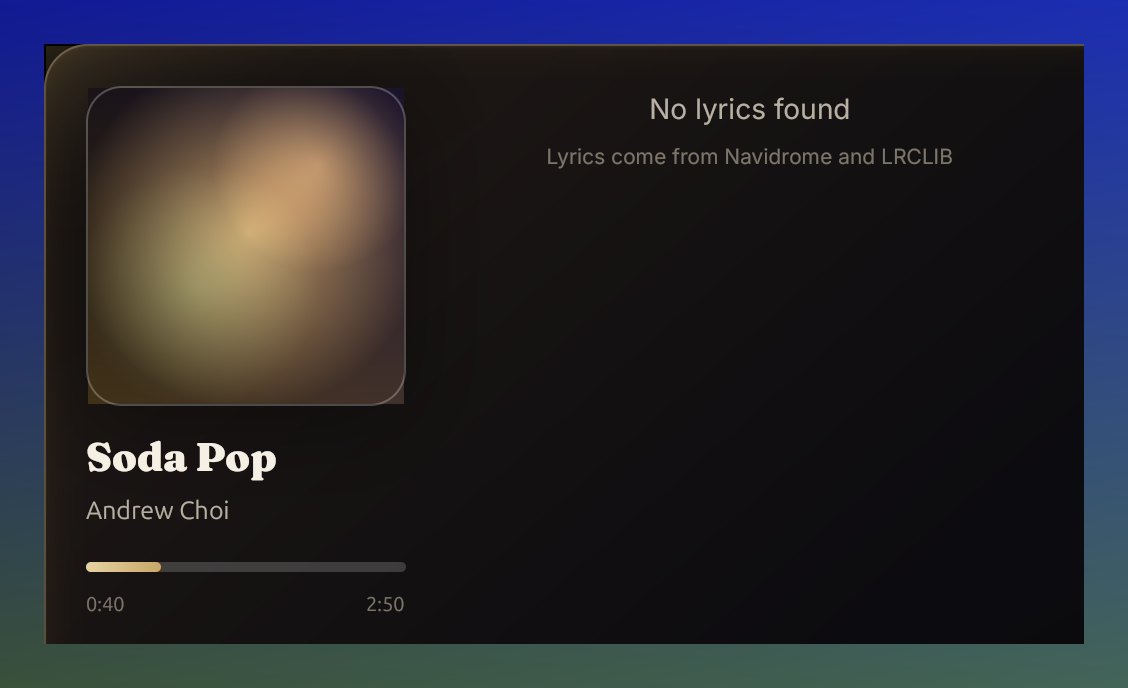
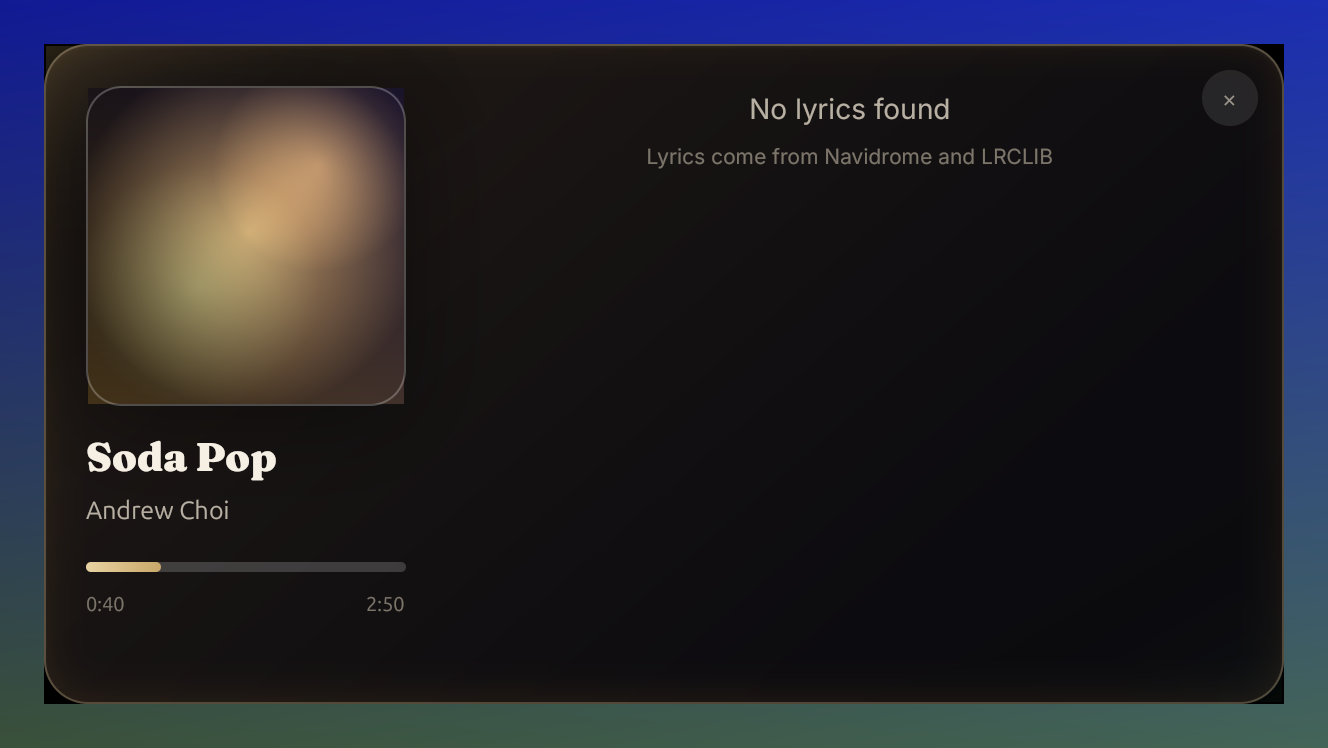
fix(overlay): make the band genuinely live while the window is unfocused
The overlay still only caught up when it was clicked. The observer added last
round could never fire: in GPUI `Entity::update` does not notify observers, only
`cx.notify()` does — and every overlay update in the shell discarded its context
(`|st, _cx|`), so nothing ever asked the view to repaint. The window was redrawn
only when an input event arrived, which is exactly why clicking made the lyrics
jump forward.

Three layers now, in order of preference:

- The shell calls `cx.notify()` in all four places it mutates the overlay state
  (track start, artwork landing, lyrics result, position tick), which is the
  documented way to notify observers.
- The view observes the lyric state and repaints on change.
- A 120 ms safety ticker compares `(position, active row, line count)` with what
  it last rendered and notifies only on a real change, so a paused overlay
  schedules nothing and a future caller that forgets `cx.notify()` cannot freeze
  the band again.

`tests/screenshot_overlay.rs` gains `the_overlay_repaints_without_any_input`: it
opens the overlay headlessly, renders it, moves the position by 140 s, renders
again with no input event at all, and asserts the pixels differ. It prints
"overlay repainted without input" when it holds.

152 tests pass, clippy clean.

Changed region(s): [[0.031, 0.061, 0.9929, 0.9462], [0.4654, 0.1221, 0.8378, 0.2442], [0.8998, 0.1221, 0.9309, 0.1526]]

diff --git a/tests/screenshot_overlay.rs b/tests/screenshot_overlay.rs
@@ -238,6 +238,10 @@ fn capture_overlay_states() {
                 ));
             });
             capture("overlay-min", &mut cx, any, false);
+            // Back to the default size for the remaining captures.
+            let _ = cx.update_window(any, |_view, window, _cx| {
+                window.resize(gpui::size(gpui::px(W as f32), gpui::px(H as f32)));
+            });
         }
     }
 
@@ -292,4 +296,73 @@ fn capture_overlay_states() {
             capture("overlay-empty", &mut cx, any, false);
         }
     }
+}
+
+/// The overlay must repaint when the song moves while the window has no focus and
+/// receives no input. Renders the same window twice with a position jump in
+/// between and requires the pixels to change.
+#[test]
+#[ignore = "needs GPUI's headless wgpu renderer; run with --ignored"]
+fn the_overlay_repaints_without_any_input() {
+    let text_system = Arc::new(CosmicTextSystem::new("sans-serif"));
+    let mut cx = HeadlessAppContext::with_platform(text_system, Arc::new(()), || {
+        gpui_platform::current_headless_renderer()
+    });
+    cx.update(|app| {
+        let fonts: Vec<std::borrow::Cow<'static, [u8]>> = vec![
+            std::borrow::Cow::Borrowed(include_bytes!("../assets/fonts/Fraunces.ttf")),
+            std::borrow::Cow::Borrowed(include_bytes!("../assets/fonts/Inter.ttf")),
+        ];
+        let _ = app.text_system().add_fonts(fonts);
+    });
+
+    let state = cx.update(|app| app.new(|_cx| OverlayState::default()));
+    let st = state.clone();
+    cx.update(move |app| {
+        st.update(app, |s, _cx| {
+            s.begin("Bad Guy".to_string(), "Billie Eilish".to_string());
+            s.set_status(&LyricsStatus::Synced(synced_lines()));
+            s.sync_position(Duration::from_secs(20), 0, Some(Duration::from_secs(214)));
+        });
+    });
+
+    let geometry = Arc::new(std::sync::Mutex::new(OverlayGeometry::default()));
+    let handle = cx.update(|app| {
+        let bounds = gpui::Bounds::new(
+            gpui::point(gpui::px(0.0), gpui::px(0.0)),
+            gpui::size(gpui::px(W as f32), gpui::px(H as f32)),
+        );
+        myuzik::overlay::open_overlay(app, state.clone(), geometry, bounds)
+    });
+    let any: AnyWindowHandle = handle.into();
+
+    // Give the overlay's own ticker a chance to run: no input event is sent.
+    let shot = |cx: &mut HeadlessAppContext| -> image::RgbaImage {
+        cx.update(|app| app.refresh_windows());
+        cx.run_until_parked();
+        let _ = cx.update_window(any, |_view, window, cx| {
+            let _ = window.draw(cx);
+        });
+        cx.capture_screenshot(any).expect("capture")
+    };
+
+    let first = shot(&mut cx);
+
+    // Jump to a different part of the song, the way a position tick does.
+    let st = state.clone();
+    cx.update(move |app| {
+        st.update(app, |s, cx| {
+            s.sync_position(Duration::from_secs(160), 0, Some(Duration::from_secs(214)));
+            cx.notify();
+        });
+    });
+    std::thread::sleep(Duration::from_millis(250));
+    let second = shot(&mut cx);
+
+    assert_ne!(
+        first.as_raw(),
+        second.as_raw(),
+        "the overlay did not repaint after the position moved"
+    );
+    eprintln!("overlay repainted without input");
 }

diff --git a/src/ui/shell.rs b/src/ui/shell.rs
@@ -273,8 +273,12 @@ impl Shell {
                             // and follows plain transcripts by progress rather
                             // than faking a synced line.
                             let duration = state.read(app).duration;
-                            app.update_entity(&os, |st, _cx| {
+                            app.update_entity(&os, |st, cx| {
                                 st.sync_position(pos, offset_ms, duration);
+                                // `Entity::update` alone does not notify observers, so
+                                // the overlay window would not repaint until it was
+                                // clicked. Notify explicitly.
+                                cx.notify();
                             });
                         });
                     }
@@ -731,8 +735,9 @@ impl Shell {
                     app.update_entity(&np, |view, _cx| {
                         view.set_cover(Some(image.clone()));
                     });
-                    app.update_entity(&os_for_cover, |state, _cx| {
+                    app.update_entity(&os_for_cover, |state, cx| {
                         state.set_cover(Some(image.clone()));
+                        cx.notify();
                     });
                 });
                 if let Some(mh) = &mh {
@@ -765,9 +770,10 @@ impl Shell {
             .cover_art_id
             .as_ref()
             .and_then(|cid| self.home_state.read(cx).covers.get(cid).cloned());
-        self.overlay_state.update(cx, |st, _cx| {
+        self.overlay_state.update(cx, |st, cx| {
             st.begin(track.title.clone(), track.artist.clone());
             st.set_cover(cached_cover);
+            cx.notify();
         });
         if let Some(tray) = self.tray() {
             tray.set_track(&track.title, &track.artist);
@@ -812,9 +818,10 @@ impl Shell {
                         v.set_source_label(source_label.clone());
                         v.set_lyrics(cx, status.clone());
                     });
-                    app.update_entity(&os, |st, _cx| {
+                    app.update_entity(&os, |st, cx| {
                         st.begin(t.title.clone(), t.artist.clone());
                         st.set_status(&status);
+                        cx.notify();
                     });
                 });
             })

diff --git a/src/overlay/mod.rs b/src/overlay/mod.rs
@@ -433,6 +433,8 @@ pub struct PinnedLyricsView {
     scroll_to: f32,
     scroll_key: (usize, usize, usize),
     scroll_started: bool,
+    /// Last `(position_ms, active_row, line_count)` seen by the safety ticker.
+    tick_key: (u64, usize, usize),
 }
 
 impl PinnedLyricsView {
@@ -445,6 +447,36 @@ impl PinnedLyricsView {
         // this observer the window only redrew when it was activated, so the band
         // appeared frozen until it was clicked.
         cx.observe(&state, |_this, _state, cx| cx.notify()).detach();
+
+        // Safety net: an unfocused window must still repaint. `Entity::update`
+        // does not notify observers, so if any caller forgets, the band would
+        // freeze until the window was clicked. This only asks for a frame when
+        // the position, the active line or the line count actually moved, so a
+        // paused overlay stays completely idle.
+        cx.spawn(
+            async move |this: gpui::WeakEntity<Self>, cx: &mut gpui::AsyncApp| loop {
+                cx.background_executor()
+                    .timer(std::time::Duration::from_millis(120))
+                    .await;
+                let updated = this.update(cx, |view, cx| {
+                    let state = view.state.read(cx);
+                    let key = (
+                        state.position.as_millis() as u64,
+                        state.active_row().unwrap_or(usize::MAX),
+                        state.line_count(),
+                    );
+                    if key != view.tick_key {
+                        view.tick_key = key;
+                        cx.notify();
+                    }
+                });
+                if updated.is_err() {
+                    break;
+                }
+            },
+        )
+        .detach();
+
         Self {
             state,
             geometry,
@@ -453,6 +485,7 @@ impl PinnedLyricsView {
             scroll_to: 0.0,
             scroll_key: (0, 0, 0),
             scroll_started: false,
+            tick_key: (u64::MAX, usize::MAX, usize::MAX),
         }
     }
 }

diff --git a/CHANGELOG.md b/CHANGELOG.md
@@ -21,8 +21,13 @@
   wallpaper), and the default window grew from 392x180 to 620x330 to hold the layout.
 - Overlay artwork reuses the cached cover, and the lyric state is read without cloning the whole
   lyric list on every frame.
-- The overlay repaints on every state change again (an observer on the lyric state), so the band
-  stays live while the window is unfocused instead of only updating when it was clicked.
+- The overlay was not live: it only caught up when the window was clicked. `Entity::update` does not
+  notify observers in GPUI, and every overlay update in the shell passed `_cx`, so nothing ever asked
+  the view to repaint; the window only redrew when an input event arrived. Each update now calls
+  `cx.notify()`, the view observes the lyric state, and a 120 ms safety ticker repaints when the
+  position, active line or line count moved (so a paused overlay stays idle). Covered by a test that
+  renders the window twice with a position jump in between and requires the pixels to change, with no
+  input event sent.
 - Long lines wrap inside the lyric column instead of running past the panel edge, and each row's
   height is estimated from the wrap so neighbouring lines no longer overlap; the scroll target adds
   those heights up, keeping the active line centred.
